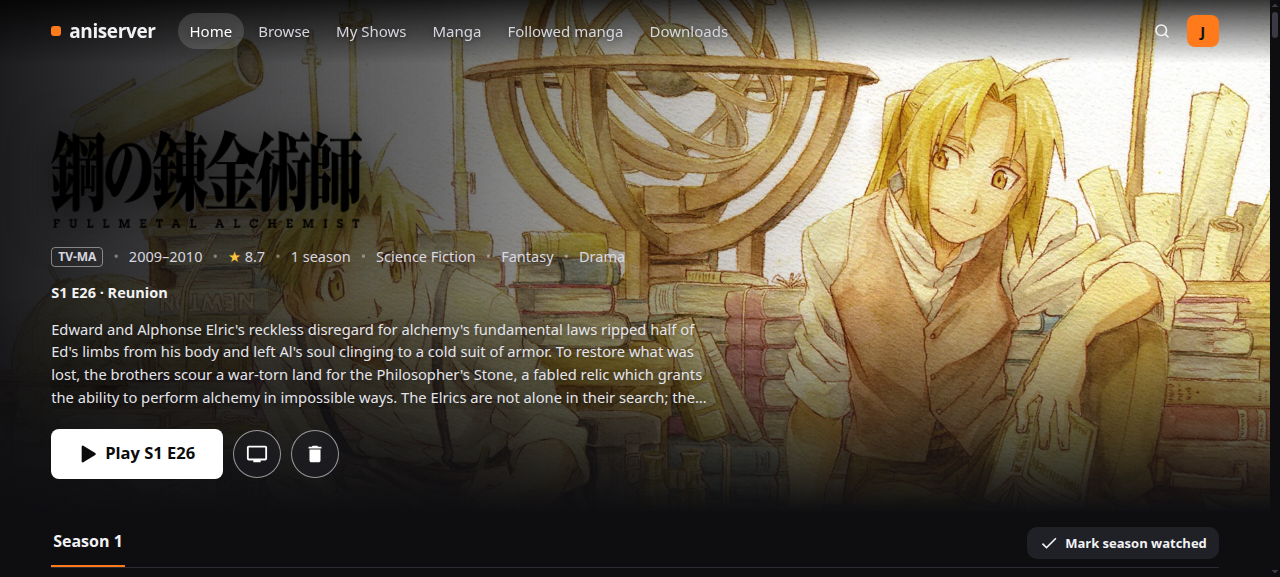
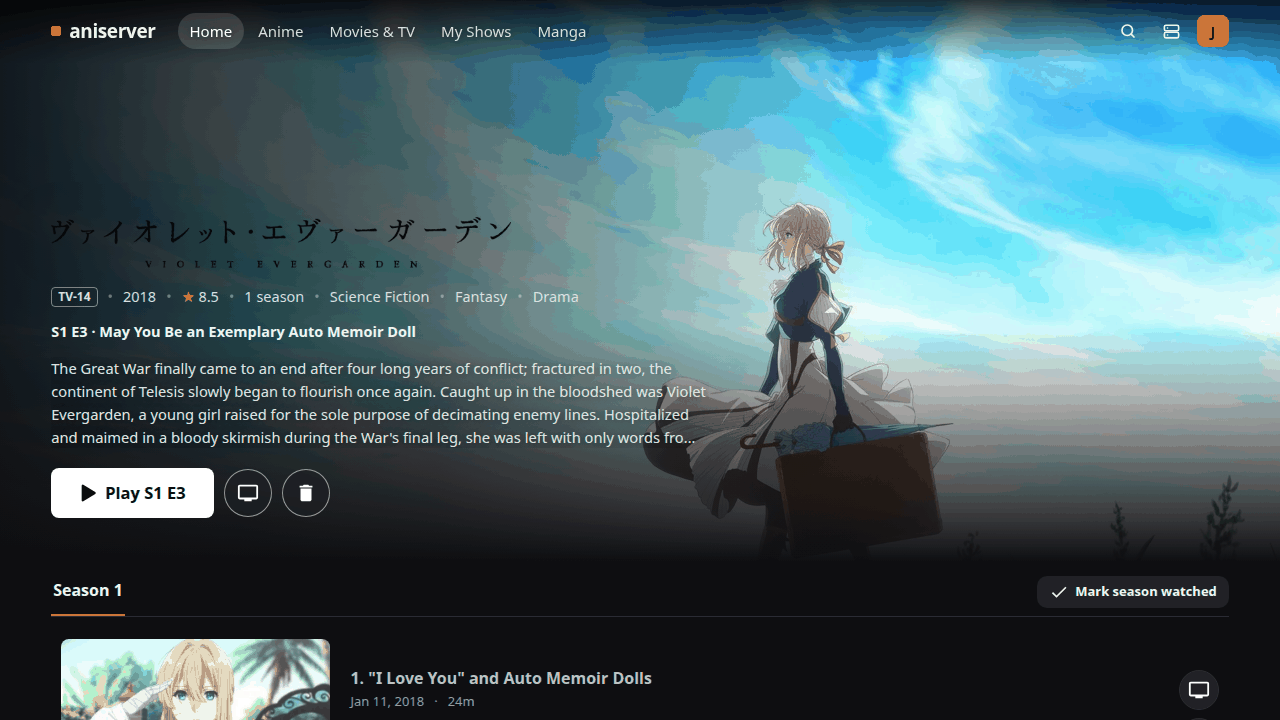
Release v1.2.0: changelog, README and new screenshots
The Unreleased notes become v1.2.0 (New / Better / Removed, entries that changed
again the same day merged). README: new 2x2 screenshots (Home, show page,
Movies & TV, My Shows) replacing the old ones (one showed the removed Downloads
page), and the feature list updated for Add & watch, My Shows, the Server page,
the player and the watchdog.

Files (8 files changed, 63 insertions(+), 54 deletions(-)):
- CHANGELOG.md
- README.md
- docs/browse.png
- docs/downloads.png
- docs/home.png
- docs/movies.png
- docs/myshows.png
- docs/show.png

Claude-Session: https://claude.ai/code/session_011fXg295dDytMzwPKT17eFk

diff --git a/CHANGELOG.md b/CHANGELOG.md
@@ -1,52 +1,53 @@
 # Changelog
 
-## Unreleased
+## v1.2.0 — 2026-11-25
 
-- Removed the old Downloads page (its script, styles and /api/downloads) and "Watch now on TV" while downloading
-  (/api/watchnow); nothing linked to them any more.
-- **Add & watch for anime and movies**: adds it and downloads the first episode (a well-seeded single-episode
-  release) or the movie first, in order, so it's playable within minutes, then searches the rest as usual. It no
-  longer starts anything on the TV by itself: play it wherever you like.
-- **Downloading now** replaces the Downloads tab: a compact list at the top of My shows (progress, speed, time left,
-  and downloads that can't be added, with a link to fix them on the Server page). /downloads redirects there.
-- **Unfileable downloads are cleared**: a finished download Sonarr/Radarr leaves "pending" with a warning (e.g. a
-  repack that isn't better than the episode you have) is now treated as stuck: listed on the Server page with a
-  Remove button, and removed and blocklisted by the watchdog after 20 minutes.
-- **Play from search**: anime, movies and shows already downloaded get Play (and Episodes) buttons in their search
-  details instead of just "In library".
-- **Search My shows**: a box on My shows filters the cards as you type; the page's live refresh waits while you search.
-- The play button on episode thumbnails is centred (the icon was nudged right twice).
-- **Smoother adaptive player away from home**: it now keeps one quality per stream and drops a step only after real
-  stalls. hls.js used to switch on its own every few seconds (it timed segments arriving at encode speed), and every
-  switch started a new conversion on the server while the old ones kept running, so the player buffered constantly.
-  Skips now take about 2 s and the buffer fills about 2.5× faster than real time.
-- **Empty recycle bin** (Server page): deletes Sonarr/Radarr's recycle bin now instead of after 14 days, and stops
-  seeding torrents whose files only live on in the bin (an upgraded show's old copies), so the space is really freed.
-- **Watchdog**: downloads that haven't received anything for a day are removed, blocklisted and searched again;
-  LimeTorrents (setting `regular_tv_only_indexers`) is only used for regular TV, through a `regular-tv` tag in Sonarr
-  that every non-anime show gets.
-- **Cleaner look**: on phones the menu is a tab bar along the bottom (it used to run off the screen); Manga and
-  Followed manga are one tab with Search / Followed inside; the owner's Server page is an icon by the avatar. My Shows
-  shows how many shows and movies there are, titles aren't underlined, and Delete is a small icon in the corner.
-  Account and Server lay their cards out in two columns on wide screens; Server shows each service as a tile with a
-  status light and an "All running" / "N down" summary. One Jellyfin password card instead of two.
-- **Server page** (owner only, in the nav): every service up/down with a **Restart** button, the media drives
-  (connected, space left, a **Mount** button when one isn't, what the recycle bin holds), downloads that haven't
-  received anything for 6 hours with **Remove & find another** (blocklists that release; Sonarr/Radarr search again),
-  and the watchdog's latest actions and alerts.
-- **Forgot your Jellyfin password?** (owner, Account page): approve a Jellyfin app's Quick Connect code, or set a new
-  password without the old one, since signing in to the site already proved who you are.
-- **Watchdog**: a phone alert when a media drive in fstab isn't mounted; TV entries for files Sonarr/Radarr replaced
-  with a better copy are removed after their watched state is copied over.
+Movies and regular TV, a Server page for fixing things without a terminal, a smoother player away from home.
+
+### New
+
 - **Movies & TV page** for everything that isn't anime: search (Radarr/Sonarr's TMDB/TVDB lookup, the better-known
   kind first), Trending / Popular / "because of what's in the library" rows from Radarr's discover lists (no TMDB key),
-  and anime found there points to the Anime page. Movies: **Add** or **Add & watch now on TV** (picks a release with
-  enough seeders to stay ahead of playback). Shows: all seasons, the latest season, or only new episodes.
-- **Regular TV gets season packs first**: the batch-first search asks for "Title S02" in Prowlarr's TV categories.
-- **Own folders, profiles and libraries**: `film_folders` / `tv_folders` (Movies, TV Shows), profiles `Movies 1080p`
-  (TRaSH HD Bluray + WEB) and `TV 1080p` (TRaSH WEB-1080p plus Blu-ray 1080p, 720p as a last resort) in
-  `recyclarr/recyclarr.yml`; the wizard creates the folders and Jellyfin libraries. The Sonarr add hook puts regular
-  shows in TV Shows with TV 1080p.
+  and anime found there points to the Anime page. Shows: all seasons, the latest season, or only new episodes.
+- **Own folders, profiles and libraries** for regular movies and TV: `film_folders` / `tv_folders` (Movies, TV Shows),
+  profiles `Movies 1080p` (TRaSH HD Bluray + WEB) and `TV 1080p` (TRaSH WEB-1080p plus Blu-ray 1080p, 720p as a last
+  resort) in `recyclarr/recyclarr.yml`; the wizard creates the folders and Jellyfin libraries. Regular TV gets season
+  packs first ("Title S02" in Prowlarr's TV categories).
+- **Add & watch** (anime and movies): adds it and downloads the first episode (a well-seeded single-episode release)
+  or the movie first, in order and ahead of everything else, so it's ready to play within minutes; then the rest is
+  searched as usual. Nothing starts playing by itself.
+- **Server page** (owner only, an icon by the avatar): every service up/down with a **Restart** button; the media
+  drives (connected, space left, a **Mount** button when one isn't); **Empty recycle bin** (also stops seeding
+  torrents whose files only live on in the bin, so the space is really freed); stuck downloads with **Remove & find
+  another**, or **Remove** for a finished one that can't be added; the watchdog's latest actions and alerts.
+- **Forgot your Jellyfin password?** (owner, Account page): approve a Jellyfin app's Quick Connect code, or set a new
+  password without the old one, since signing in to the site already proved who you are.
+- **My Shows**: a search box, a **Downloading now** list at the top (progress, speed, time left, and downloads that
+  can't be added), and a count of shows and movies. It replaces the Downloads tab; `/downloads` redirects there.
+- **Play from search**: anime, movies and shows you already have get Play (and Episodes) in their search details.
+
+### Better
+
+- **Smoother adaptive player away from home**: it keeps one quality per stream and steps down only after real stalls.
+  hls.js used to switch on its own every few seconds (it timed segments arriving at encode speed), and every switch
+  started a new conversion on the server while the old ones kept running, so it buffered constantly. Skips now take
+  about 2 s and the buffer fills about 2.5× faster than real time.
+- **Cleaner look**: on phones the menu is a tab bar along the bottom; Manga and Followed manga are one tab; Account and
+  Server lay their cards out in two columns on wide screens; Delete on My Shows is a small icon; one Jellyfin
+  password card instead of two; the play icon on thumbnails is centred.
+- **Watchdog**:
+  - a phone alert when a media drive in fstab isn't mounted;
+  - downloads that haven't received anything for a day are removed, blocklisted and searched again;
+  - a finished download Sonarr/Radarr leaves "pending" with a warning (e.g. a repack that isn't better than the
+    episode you have) is removed and blocklisted after 20 minutes;
+  - TV entries for files Sonarr/Radarr replaced with a better copy are removed after their watched state is copied;
+  - LimeTorrents (setting `regular_tv_only_indexers`) is only used for regular TV, through a `regular-tv` tag.
+- **Repacks**: Sonarr and Radarr no longer prefer repacks over the quality rules (`propers_and_repacks:
+  do_not_prefer` in the Recyclarr config), so they stop grabbing repacks worse than what's already there.
+
+### Removed
+
+- The old Downloads page and "Watch now on TV" while downloading (`/api/downloads`, `/api/watchnow`).
 
 ## v1.1.0 — 2026-11-03
 

diff --git a/README.md b/README.md
@@ -6,24 +6,32 @@ A home anime server: new episodes download by themselves, play on the living-roo
 **aniserver**, a Netflix-style website with its own adaptive player. Built on Sonarr, Radarr, qBittorrent, Jellyfin
 and Kodi, running on one Ubuntu machine.
 
-| Show page | Browse | Downloads |
-|---|---|---|
-| ![Show page](docs/show.png) | ![Browse](docs/browse.png) | ![Downloads](docs/downloads.png) |
+| Home | Show page |
+|---|---|
+| ![Home](docs/home.png) | ![Show page](docs/show.png) |
+| **Movies & TV** | **My Shows** |
+| ![Movies & TV](docs/movies.png) | ![My Shows](docs/myshows.png) |
 
 ## Features
 
 - **Add anime by the name people use** ("jjk", "re zero"). Seasons are matched to TVDB by air date, so split cours,
   continuing seasons and Netflix-first releases get the right episodes.
-- **A player that adapts to the connection**: direct play at home, the original repackaged, or a GPU-encoded quality
-  ladder away from home, with full-quality anime subtitles (ASS, the release's own fonts) in the browser.
+- **A player that adapts to the connection**: direct play at home, the original repackaged, or GPU-encoded away from
+  home (one quality per stream, stepping down only after real stalls), with full-quality anime subtitles (ASS, the
+  release's own fonts) in the browser.
 - **Movies and TV too**: a Movies & TV page searches TMDB/TVDB through Radarr and Sonarr, shows what's trending and
-  popular, and adds them with their own 1080p quality rules and folders. **Add & watch** (movies and anime) downloads the
-  movie or first episode first, from a well-seeded release, so it's playable within minutes; nothing starts by itself. Regular TV downloads whole seasons at a time, like anime batches.
+  popular, and adds them with their own 1080p quality rules and folders. Regular TV downloads whole seasons at a time,
+  like anime batches.
+- **Add & watch** (anime and movies): the first episode or the movie downloads first, from a well-seeded release, so
+  it's ready to play within minutes; the rest follows. Search results you already have get a Play button.
+- **My Shows**: everything you've added, searchable, with what's downloading right now at the top.
 - **A Server page for the owner**: services with restart buttons, drive space (and a mount button if the USB drive
-  comes loose), stuck downloads with one-click replacement, and what the watchdog did lately.
-- **Watch on the TV while it downloads**, resume anywhere, skip openings, next episode, Continue on TV.
+  comes loose), an empty-recycle-bin button, stuck downloads with one-click replacement, and what the watchdog did
+  lately. Forgot your Jellyfin password? Reset it or approve a Quick Connect code from the Account page.
+- **Resume anywhere**, skip openings, next episode, Play on TV and Continue on TV.
 - **A safety net** that fixes or reports what usually breaks: shows left with nothing to download, stuck or misread
-  imports, the TV missing episodes or matching the wrong show, services that stop answering.
+  imports, dead or fake downloads (replaced after a day), the TV missing episodes or keeping replaced ones, a media
+  drive that came unplugged, services that stop answering.
 - **Anime artwork in Japanese or English** (posters, title logos, romaji titles), each person's own pick.
 - **Accounts**: one login per person (password + authenticator code once per browser, or a passkey such as
   Windows Hello), each with their own history; the TV keeps its own.
